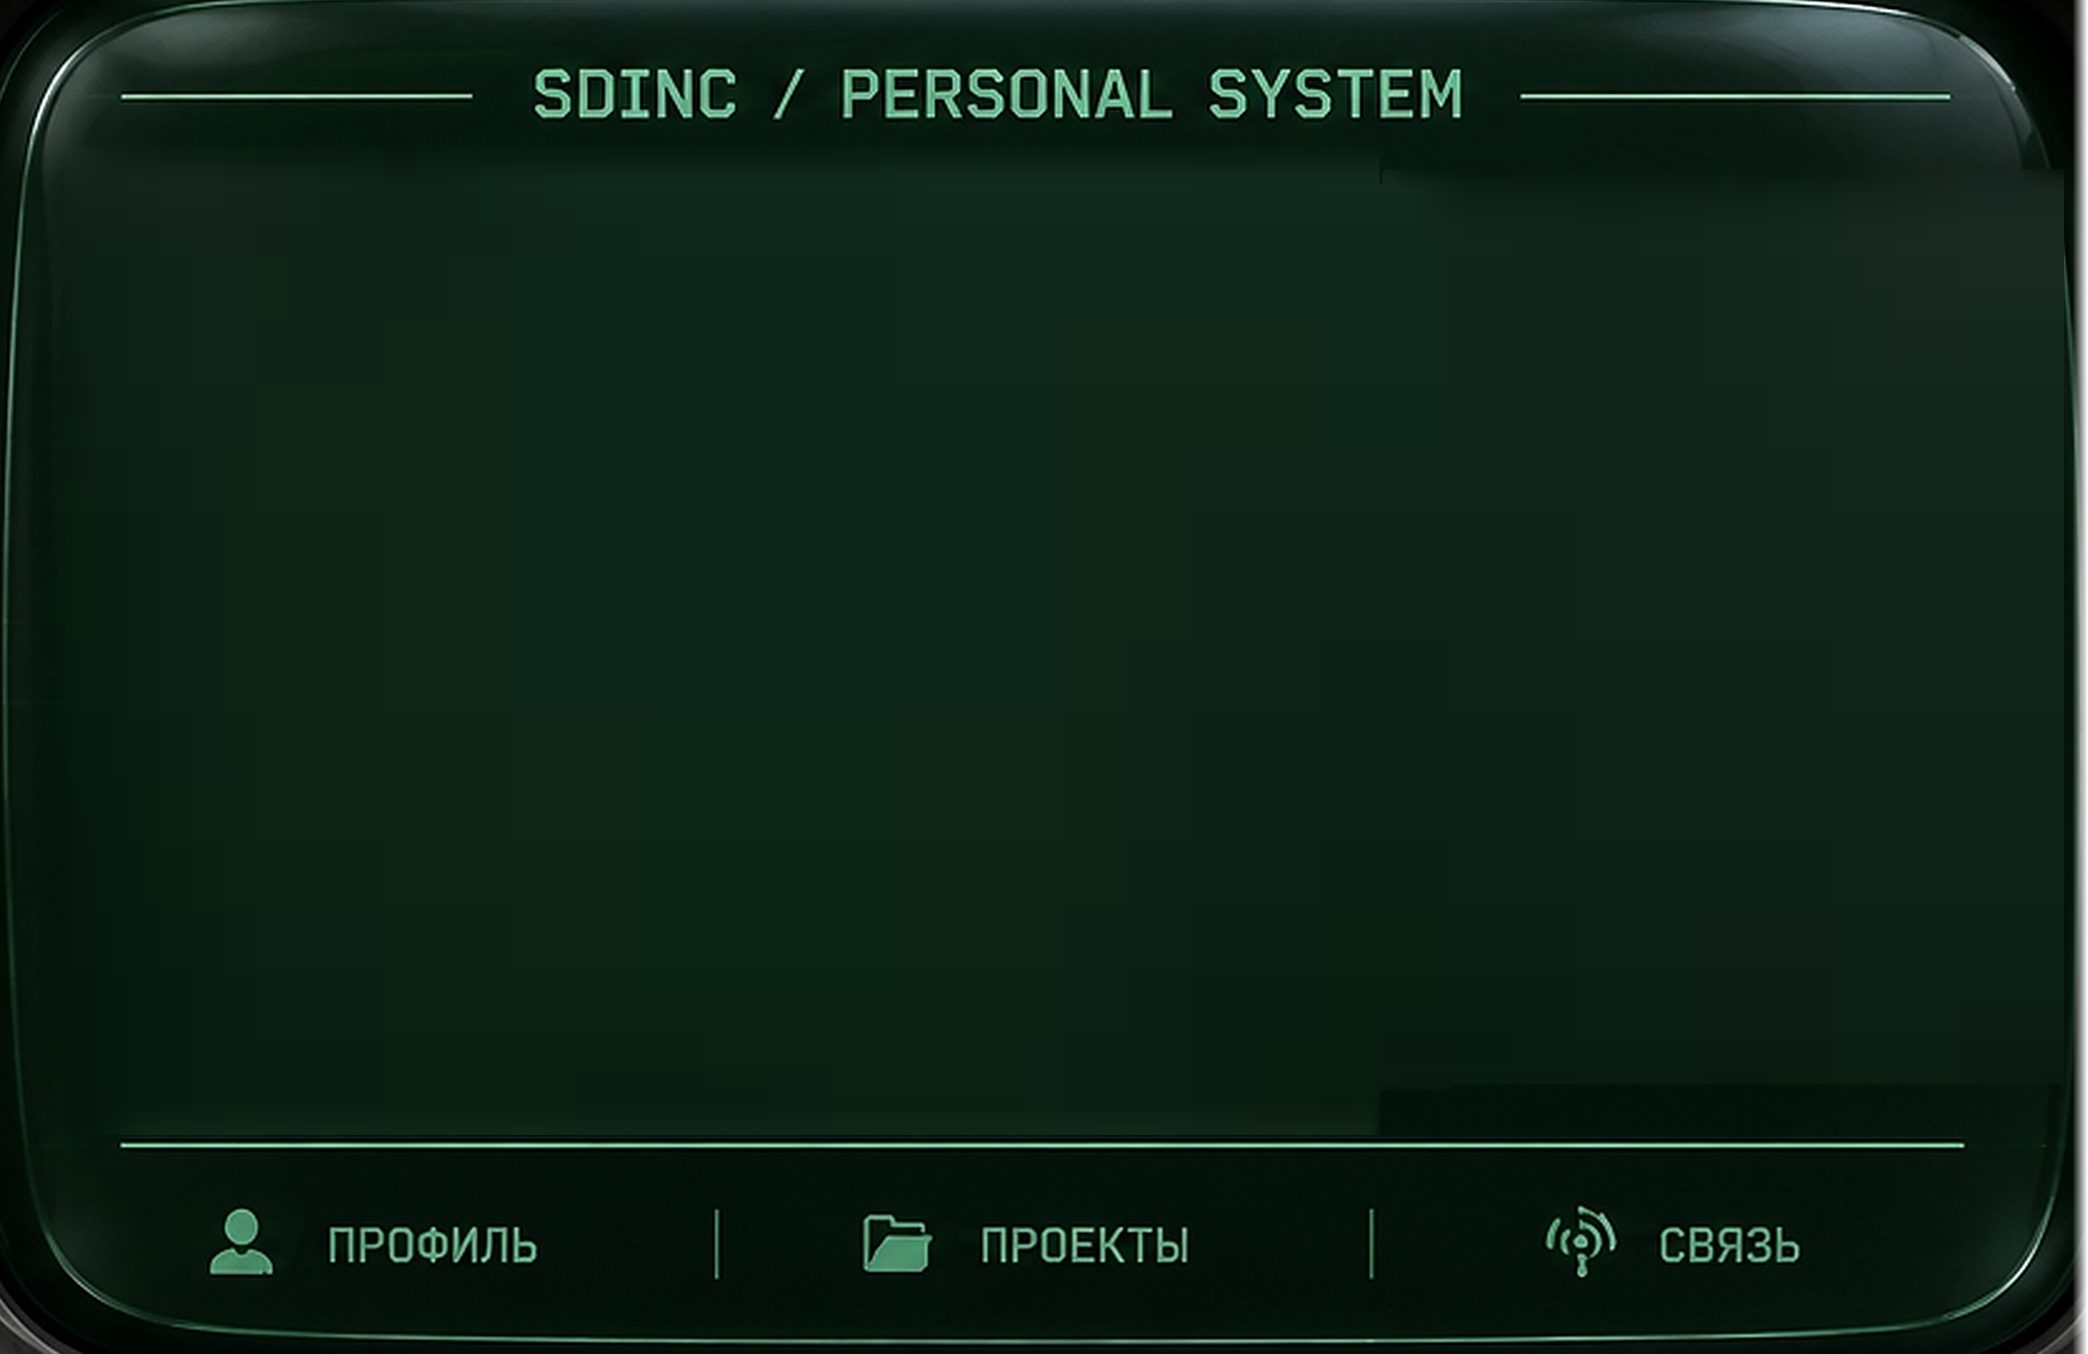
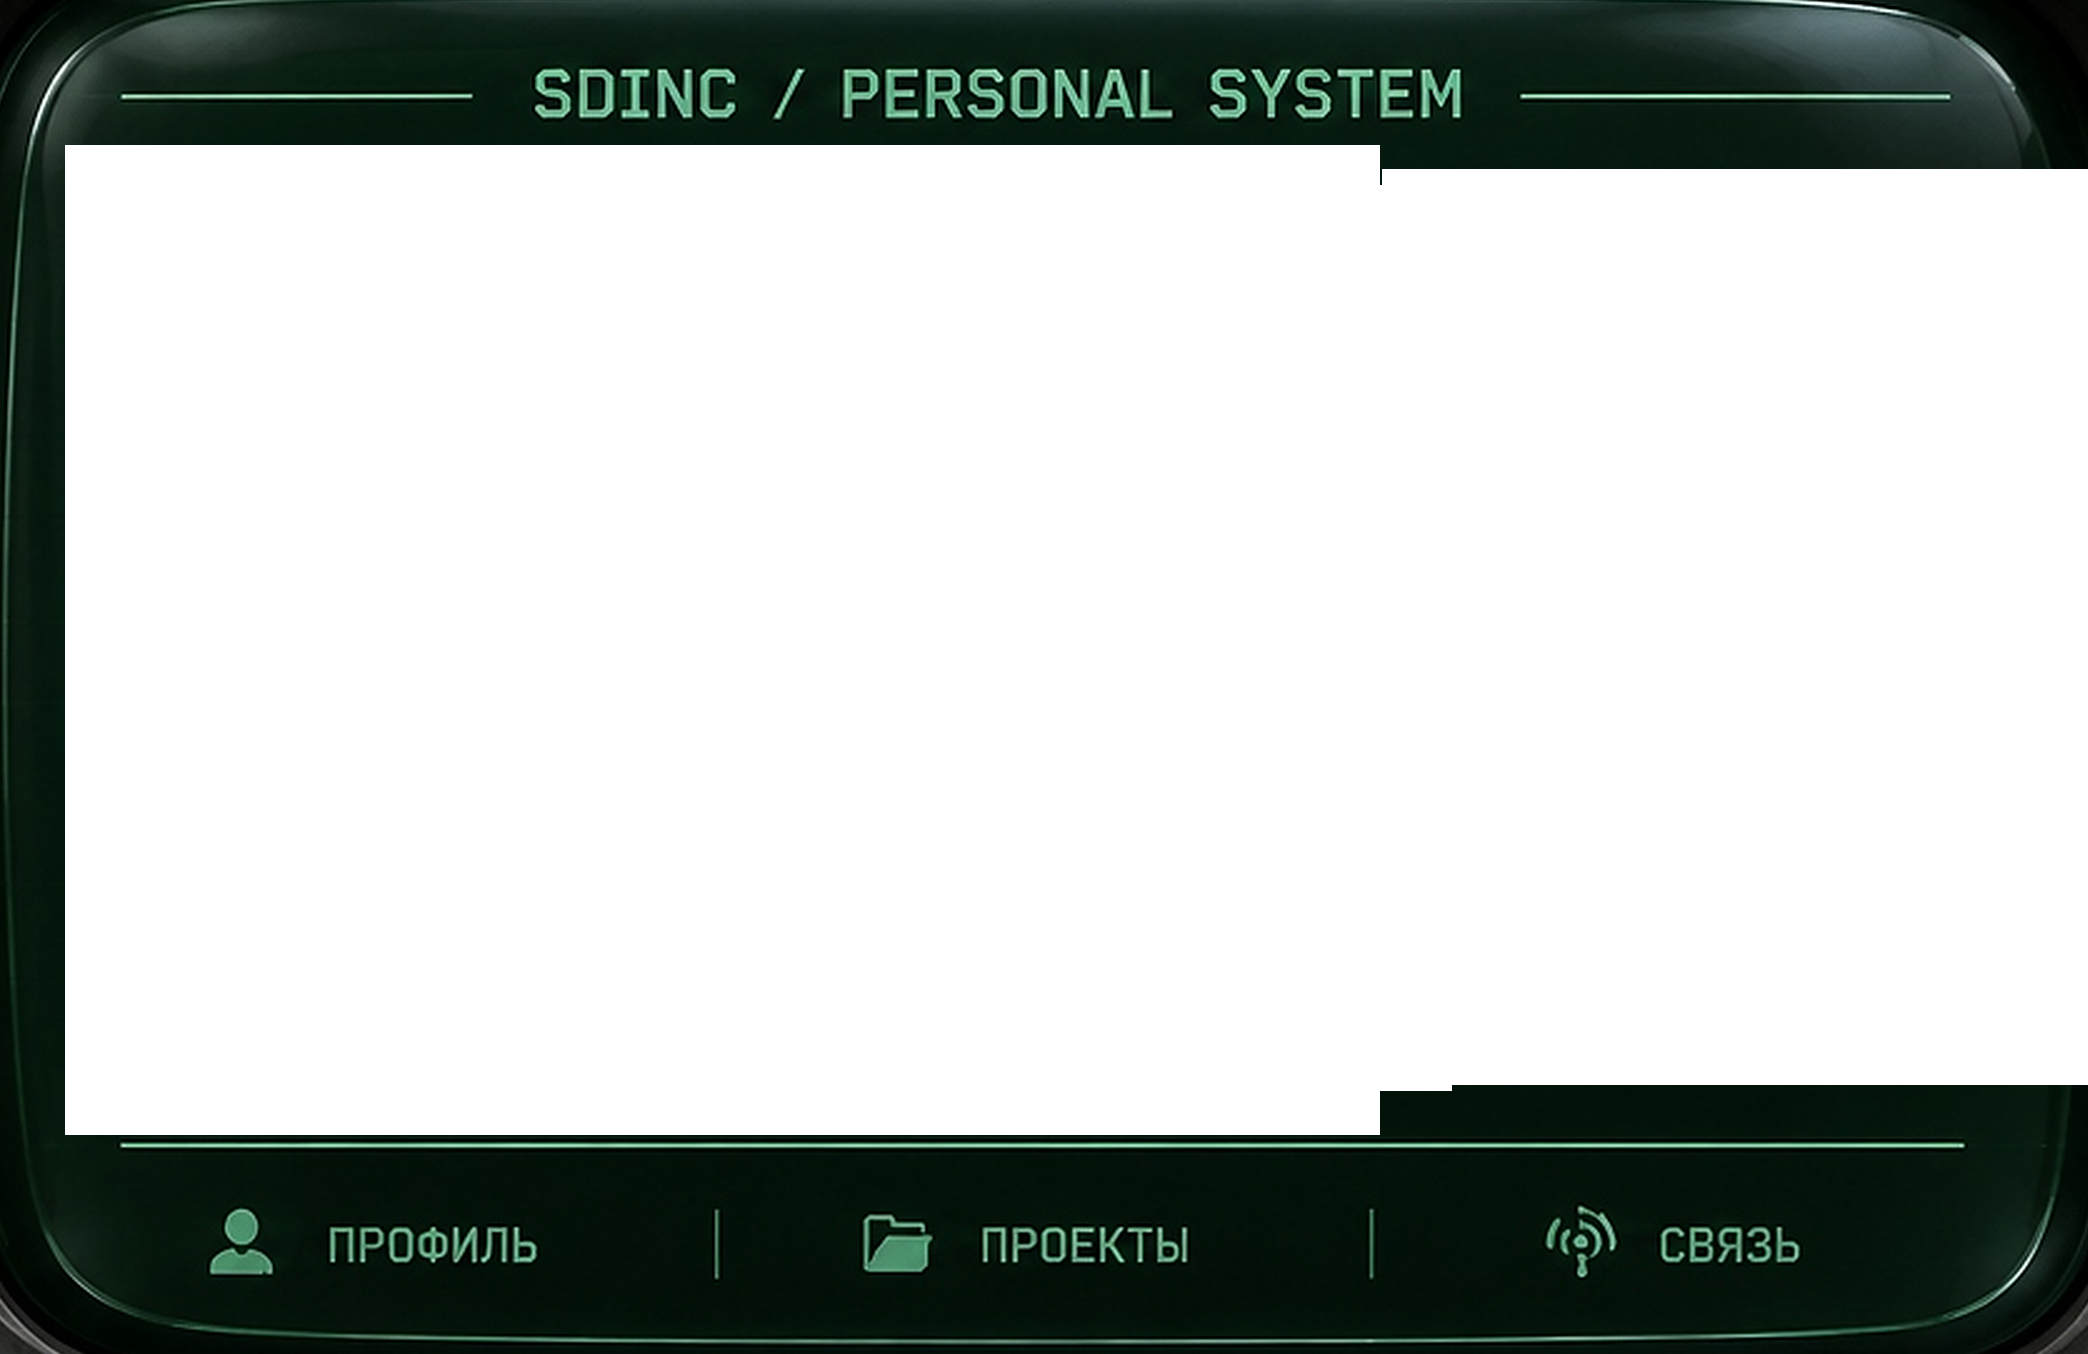
C2: rebuild screen-surface with transparent content cutout
make-screen-surface.py emits an RGBA plate: masked content region (diagram + LLM card) is alpha=0 instead of pyramid-interpolated, so the master's original glass shows through. Opaque region byte-identical to master crop (max delta 0.00). Post-fix glass-ring measurement: right-edge 40 cols mean|delta|=0.00, top band 0.31, overall 0.47/0.27 (was ~11.4). The two visible artifacts on Projects/Contact are gone; Profile untouched.

diff --git a/scripts/make-screen-surface.py b/scripts/make-screen-surface.py
@@ -1,26 +1,30 @@
 #!/usr/bin/env python3
 """Generate the clean display surface (screen-surface.png) for SDINC.
 
-Derives a clean inner-display plate from the approved 4K reference by removing
-ONLY the mode-specific start content (digital twin diagram + LLM card) and
-keeping everything common baked: header with side rules, bottom tab row,
-separator, glass glare and vignette.
+Derives a clean inner-display plate from the approved 4K reference by
+REMOVING ONLY the mode-specific start content (digital twin diagram + LLM
+card). The removed regions are emitted as TRANSPARENT (alpha=0) so the
+master raster's ORIGINAL glass shows straight through when the plate is
+overlaid — this is the artifact fix: no interpolated interior means no
+double-tint, no horizontal seam band, no right-edge color step.
 
 - Source: public/assets/device/SDINC_reference_4K_conservative.png (untouched).
 - Crop:   [1250, 588] .. [3338, 1942] -> 2088x1354, no resize, no sharpening,
   no color correction.
-- Masked areas are reconstructed by coarse-to-fine pyramid interpolation of
-  the surrounding ORIGINAL pixels (the background field there is smooth).
-  The reconstructed background is a DERIVED layer, not an extracted original
-  hidden surface.
+- Output: RGBA plate. Opaque (alpha=255) everywhere except the masked
+  content regions (alpha=0). Unmasked pixels are byte-identical to the
+  master crop, so the plate's edges are seamless by construction.
+- The legacy pyramid-fill + 24px border-restore path (and the separate
+  fix-surface-border.py) is superseded: with a transparent cutout the
+  interior is the master itself, so there is nothing to reconstruct and
+  nothing to re-paste.
 
 Outputs:
-  public/assets/device/screen-surface.png        (the plate, opaque)
+  public/assets/device/screen-surface.png        (RGBA plate, transparent cutout)
   docs/screen-surface/screen-surface-mask.png    (removed-content mask)
-  docs/screen-surface/screen-surface-compare.png (before | after side by side)
+  docs/screen-surface/screen-surface-compare.png (before | composited-over-master)
 
-Prints residual statistics (high-pass inside masked areas) as an automated
-ghost/stripe check. Reference file is never modified.
+Reference file is never modified.
 """
 
 from pathlib import Path
@@ -118,49 +122,50 @@ def main() -> None:
     mask = np.asarray(mask_image, dtype=np.float64) / 255.0
     binary = mask >= 0.5
 
-    filled = pyramid_fill(np.asarray(plate_before, dtype=np.float64), binary)
+    # TRANSPARENT-CUTOUT MODE (the artifact fix): the plate is emitted as RGBA.
+    # Every pixel the mask removed (where the mode-specific content used to be)
+    # becomes alpha=0 so the master's ORIGINAL glass shows straight through —
+    # no interpolated interior, hence no double-tint / horizontal band / right
+    # seam. Everything outside the mask keeps the original crop pixels at
+    # alpha=255. This supersedes the older pyramid-fill approach whose derived
+    # interior drifted from the master glass (mean 11.4 / max 240 lum).
+    arr = np.asarray(plate_before, dtype=np.uint8).copy()
+    alpha = np.full(arr.shape[:2], 255, dtype=np.uint8)
+    alpha[binary] = 0
+    rgba = np.dstack([arr, alpha[..., None]])
+    plate = Image.fromarray(rgba, "RGBA")
 
-    # --- edge integrity pass -----------------------------------------------
-    # The dilated mask (MaxFilter(15)) reaches the right crop edge, so the
-    # interpolated fill overwrites the rightmost columns with values that
-    # drift up to ~13 lum from the master chassis frame — a visible seam when
-    # the surface is overlaid on the master raster. The glass frame itself is
-    # never masked (the crop border is outside every content rect), so the
-    # original crop pixels on the border are the CORRECT ones: restore a 24px
-    # border strip from `plate_before` to guarantee pixel-identical edges.
-    BORDER = 24
-    filled_arr = np.asarray(filled, dtype=np.float64)
-    before_arr = np.asarray(plate_before, dtype=np.float64)
-    filled_arr[:BORDER, :] = before_arr[:BORDER, :]
-    filled_arr[-BORDER:, :] = before_arr[-BORDER:, :]
-    filled_arr[:, :BORDER] = before_arr[:, :BORDER]
-    filled_arr[:, -BORDER:] = before_arr[:, -BORDER:]
-    filled = filled_arr
-    # ------------------------------------------------------------------------
+    # The plate is now RGBA: original crop pixels everywhere (alpha=255),
+    # transparent (alpha=0) exactly where the mask removed content. No border
+    # restoration is needed — the unmasked border pixels are already the
+    # original crop, pixel-identical to the master by construction.
 
-    stats = highpass_stats(filled, binary)
-
-    plate = Image.fromarray(np.clip(filled, 0, 255).astype(np.uint8))
     OUT_PLATE.parent.mkdir(parents=True, exist_ok=True)
     OUT_DIR.mkdir(parents=True, exist_ok=True)
     plate.save(OUT_PLATE)
     mask_image.save(OUT_DIR / "screen-surface-mask.png")
 
+    # Compare: show the original crop and the plate composited over the
+    # master crop (alpha-blend), so the transparent cutout reads as "master
+    # showing through" rather than black.
+    compare_bg = plate_before.copy().convert("RGBA")
+    composited = Image.alpha_composite(compare_bg, plate)
     compare = Image.new("RGB", (size[0] + 12, size[1] * 2 + 12), (24, 24, 24))
     compare.paste(plate_before, (0, 0))
-    compare.paste(plate, (0, size[1] + 12))
+    compare.paste(composited.convert("RGB"), (0, size[1] + 12))
     compare.save(OUT_DIR / "screen-surface-compare.png")
 
-    # Edge-identity check: max per-column |surface - master crop| across the
-    # whole plate; border columns must be 0.0.
+    # Verify: the plate must be pixel-identical to the master crop everywhere
+    # it is OPAQUE (alpha=255). Opaque-region delta should be 0.
     ref_arr = np.asarray(plate_before, dtype=np.float64)
-    edge_delta = np.abs(np.asarray(plate, dtype=np.float64) - ref_arr).mean(axis=0)
-    print("plate:", OUT_PLATE.name, plate.size)
+    plate_rgba = np.asarray(plate, dtype=np.float64)
+    opaque = alpha == 255
+    opaque_delta = np.abs(plate_rgba[..., :3][opaque] - ref_arr[opaque]).max()
+    print("plate:", OUT_PLATE.name, plate.size, "mode:", plate.mode)
     print("mask:", OUT_DIR / "screen-surface-mask.png")
     print("compare:", OUT_DIR / "screen-surface-compare.png")
-    print("highpass residual (ghost/stripe check):", stats)
-    print(f"edge-identity: border 24 cols/rows max ΔL={edge_delta[:BORDER].max():.2f} / "
-          f"{edge_delta[-BORDER:].max():.2f}, interior max ΔL={edge_delta.max():.2f}")
+    print(f"opaque-region max |Δ vs master|: {opaque_delta:.2f} (expect 0.00)")
+    print(f"transparent pixels: {int((~opaque).sum())} / {opaque.size}")
 
 
 if __name__ == "__main__":
